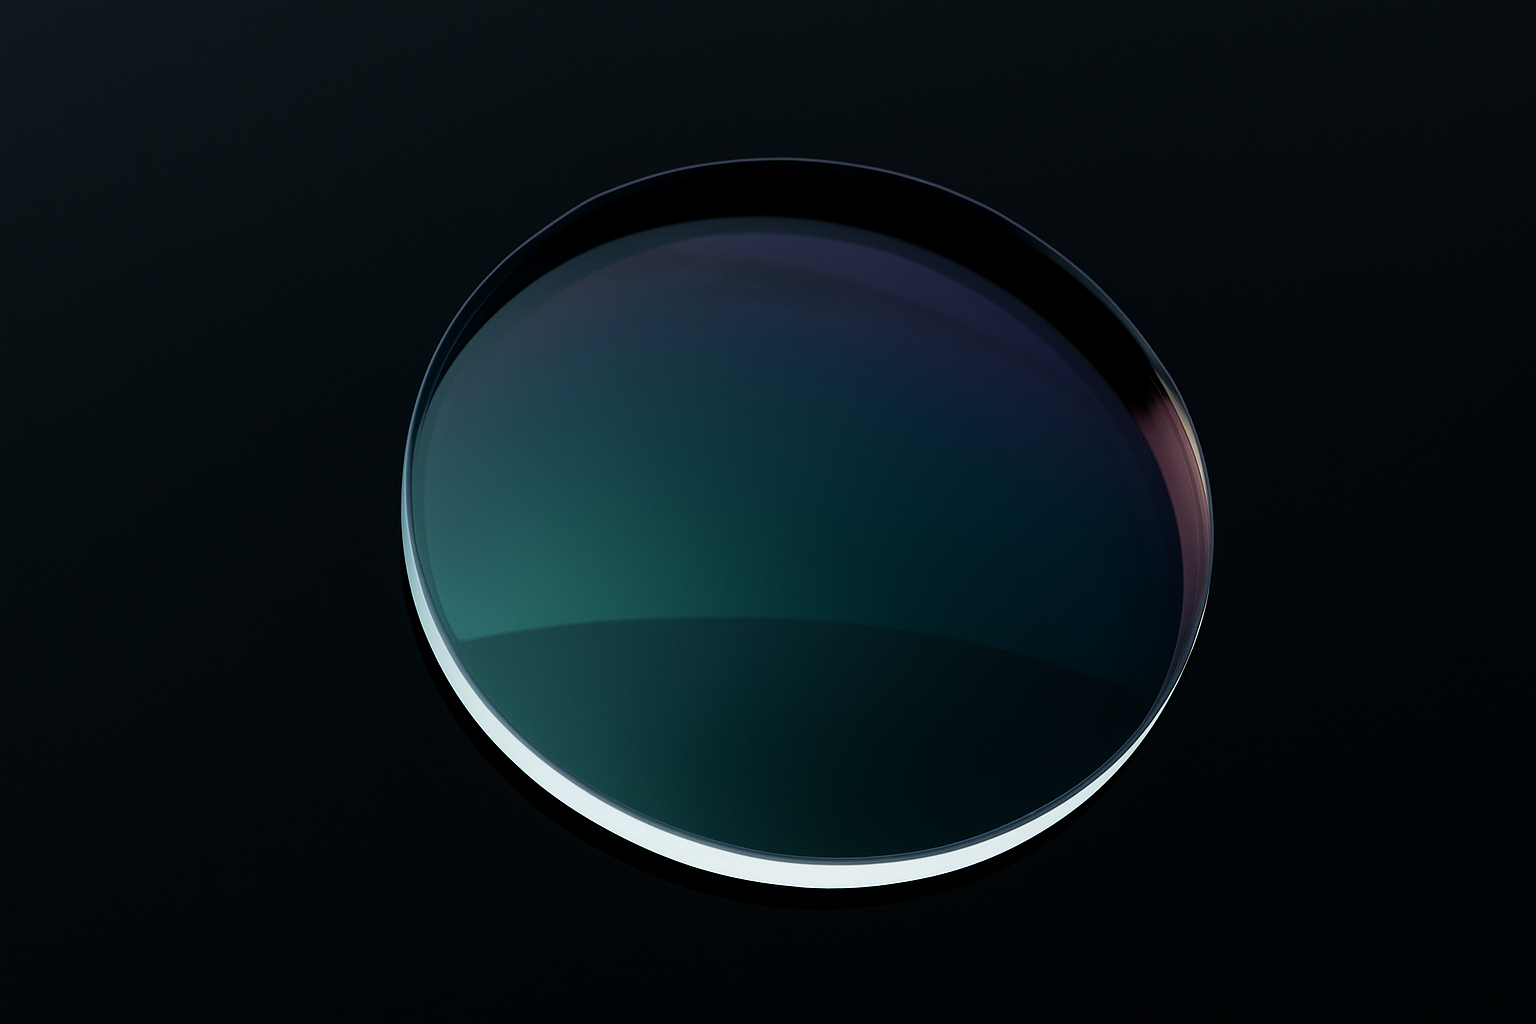
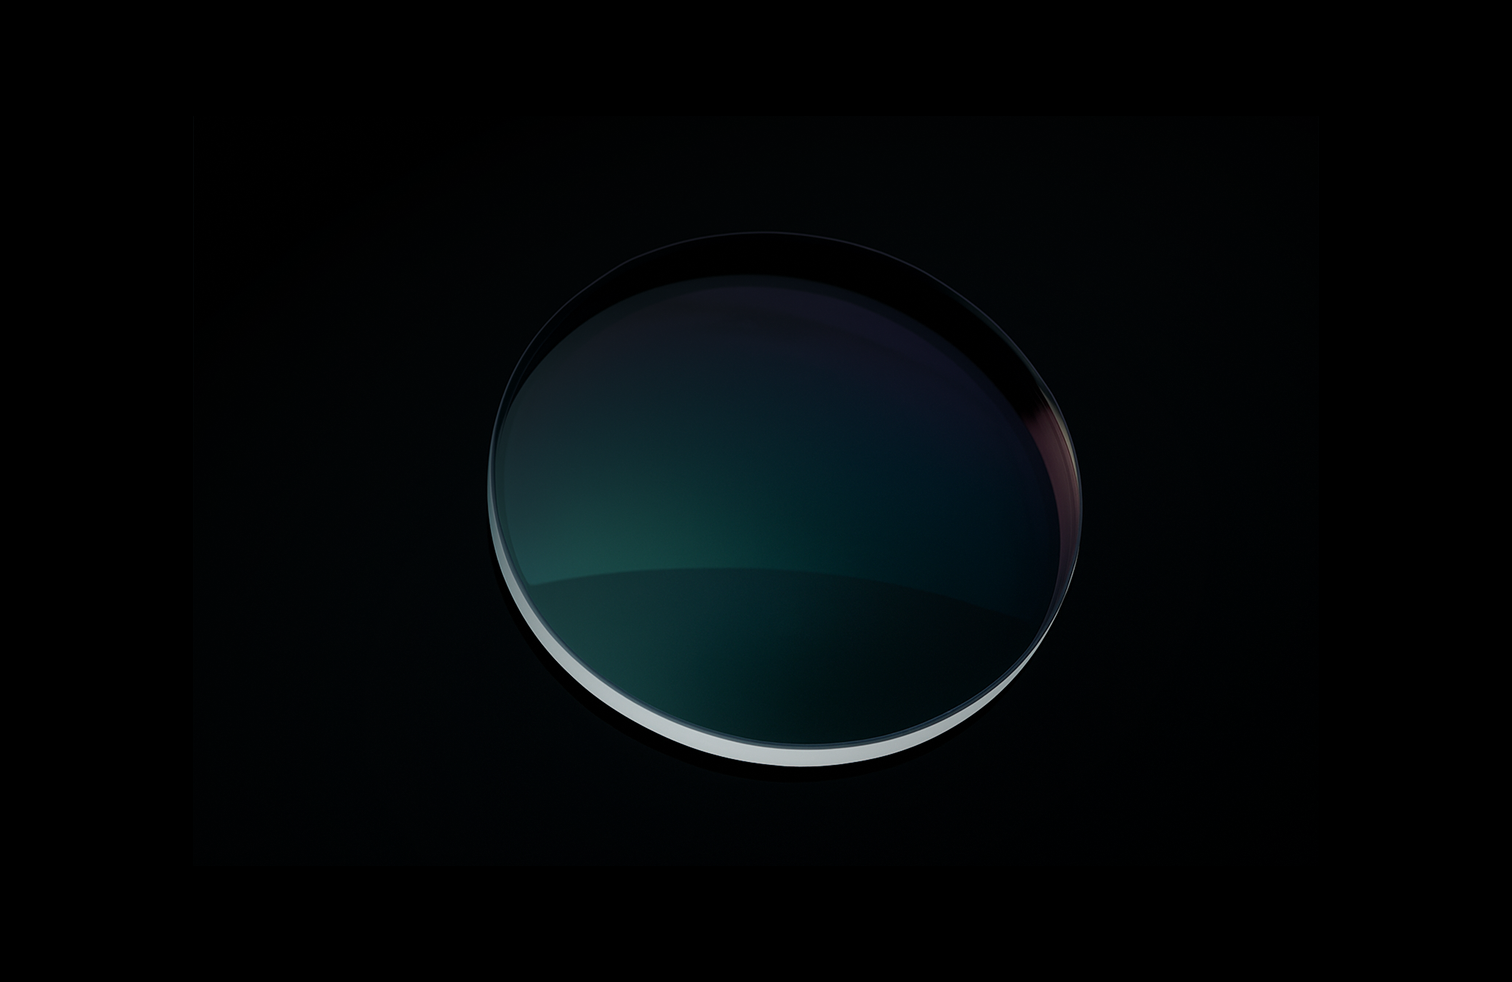
push

diff --git a/components/features/Feature.tsx b/components/features/Feature.tsx
@@ -1,0 +1,135 @@
+import React from "react";
+import type { NextPage } from "next";
+
+// --- SVG Icon Components ---
+// Using inline SVGs to avoid external dependencies and closely match the design.
+
+const ShieldIcon = () => (
+  <svg
+    width="128"
+    height="128"
+    viewBox="0 0 128 128"
+    fill="none"
+    xmlns="http://www.w3.org/2000/svg"
+    className="absolute top-1/2 left-1/2 -translate-x-1/2 -translate-y-1/2 w-32 h-32 text-gray-700"
+  >
+    <defs>
+      <filter id="glow" x="-50%" y="-50%" width="200%" height="200%">
+        <feGaussianBlur stdDeviation="10" result="coloredBlur" />
+        <feMerge>
+          <feMergeNode in="coloredBlur" />
+          <feMergeNode in="SourceGraphic" />
+        </feMerge>
+      </filter>
+    </defs>
+    <path
+      d="M64 10.6667C64 10.6667 106.667 21.3333 106.667 64C106.667 106.667 64 117.333 64 117.333C64 117.333 21.3333 106.667 21.3333 64C21.3333 21.3333 64 10.6667 64 10.6667Z"
+      stroke="rgba(160, 240, 220, 0.2)"
+      strokeWidth="2"
+      filter="url(#glow)"
+    />
+    <path
+      d="M58.6667 61.3333L64 56L69.3333 61.3333V66.6667C69.3333 70.3487 66.982 73.6133 64 74.6667C61.018 73.6133 58.6667 70.3487 58.6667 66.6667V61.3333Z"
+      fill="rgba(255, 255, 255, 0.1)"
+    />
+    <path
+      d="M64 50.6667C66.9453 50.6667 69.3333 52.8213 69.3333 55.5C69.3333 58.1787 66.9453 60.3333 64 60.3333C61.0547 60.3333 58.6667 58.1787 58.6667 55.5C58.6667 52.8213 61.0547 50.6667 64 50.6667Z"
+      fill="rgba(255, 255, 255, 0.1)"
+    />
+  </svg>
+);
+
+const CheckIcon = () => (
+  <svg
+    xmlns="http://www.w3.org/2000/svg"
+    width="16"
+    height="16"
+    fill="currentColor"
+    className="bi bi-check-circle-fill text-green-400 mr-2"
+    viewBox="0 0 16 16"
+  >
+    <path d="M16 8A8 8 0 1 1 0 8a8 8 0 0 1 16 0zm-3.97-3.03a.75.75 0 0 0-1.08.022L7.477 9.417 5.384 7.323a.75.75 0 0 0-1.06 1.06L6.97 11.03a.75.75 0 0 0 1.079-.02l3.992-4.99a.75.75 0 0 0-.01-1.05z" />
+  </svg>
+);
+
+// --- Individual Card Components ---
+
+const CheckingSavingsCard = () => (
+  <div className="bg-[#1c1c1e] rounded-2xl p-8 flex flex-col justify-end min-h-[350px] relative overflow-hidden">
+    <div className="absolute inset-0 flex items-center justify-center opacity-50">
+      <div className="relative w-full h-full">
+        <img src="/c6.jpeg" alt="sas" />
+      </div>
+    </div>
+    <div className="relative z-10">
+      <h3 className="text-xl font-semibold text-white mb-2">
+        Checking and Savings
+      </h3>
+      <p className="text-gray-400 text-sm max-w-xs">
+        Free domestic wires and ACH transfers for Pro users, up to 1.89% APY,
+        and millions in FDIC insurance.²
+      </p>
+    </div>
+  </div>
+);
+
+const WorkingCapitalCard = () => (
+  <div className="bg-[#1c1c1e] rounded-2xl p-8 flex flex-col justify-between min-h-[350px] relative overflow-hidden">
+    {/* Background graph simulation */}
+    <div className="absolute inset-0 opacity-50">
+      <img src="/c5.jpeg" alt="s" />
+    </div>
+    <div className="relative z-10 mt-auto">
+      <h3 className="text-xl font-semibold text-white mb-2">Working Capital</h3>
+      <p className="text-gray-400 text-sm max-w-xs">
+        Apply for business financing, term loans, and lines of credit through
+        our partners.
+      </p>
+    </div>
+  </div>
+);
+
+const CorporateCardsCard = () => (
+  <div className="bg-[#1c1c1e] rounded-2xl p-8 flex flex-col justify-between min-h-[350px] relative overflow-hidden">
+    {/* Background graph simulation */}
+    <div className="absolute inset-0 opacity-50">
+      <img src="/c5.jpeg" alt="s" />
+    </div>
+    <div className="relative z-10 mt-auto">
+      <h3 className="text-xl font-semibold text-white mb-2">Working Capital</h3>
+      <p className="text-gray-400 text-sm max-w-xs">
+        Apply for business financing, term loans, and lines of credit through
+        our partners.
+      </p>
+    </div>
+  </div>
+);
+
+// --- Main Page Component ---
+
+const Feature: NextPage = () => {
+  return (
+    <div className="bg-black min-h-screen p-4 sm:p-8 flex items-center justify-center font-sans">
+      <div className="w-full max-w-6xl mx-auto">
+        <header className="text-center mb-12">
+          <h1 className="text-5xl md:text-7xl font-serif text-white mb-4">
+            A <span className="italic">strong</span> financial foundation
+          </h1>
+          <p className="text-lg text-gray-400 max-w-2xl mx-auto">
+            High-yield accounts, unlimited 2% cashback cards for Pro customers,
+            and flexible working capital to fuel your business.
+          </p>
+        </header>
+
+        <main className="grid grid-cols-1 md:grid-cols-2 gap-6">
+          <CheckingSavingsCard />
+          <WorkingCapitalCard />
+          <CorporateCardsCard />
+          <CheckingSavingsCard />
+        </main>
+      </div>
+    </div>
+  );
+};
+
+export default Feature;

diff --git a/components/Footer.tsx b/components/Footer.tsx
@@ -4,8 +4,8 @@ import Image from "next/image";
 
 const Footer = () => {
   return (
-    <footer className="bg-transparent h-[100vh] backdrop-blur-sm text-white py-16 ">
-      <div className="max-w-7xl mx-auto">
+    <footer className="bg-transparent h-[100vh] backdrop-blur-sm flex items-end text-white  ">
+      <div className="max-w-7xl mx-auto h-fit ">
         <h1 className="text-9xl mt-8 font-bold font-ramro text-center tracking-[1.1rem]">
           STAY IN TOUCH
         </h1>
@@ -79,7 +79,7 @@ const Footer = () => {
               width={190}
               height={100}
             />
-            <button className="px-6 py-3  rounded-lg bg-[#E1AA12] text-white font-medium hover:bg-[#C9961A] active:scale-95 transition-all duration-200 focus:outline-none focus:ring-2 focus:ring-[#E1AA12]/50 flex items-center justify-center gap-2">
+            <button className="px-6 py-3  rounded-full bg-[#E1AA12] text-white font-medium hover:bg-[#C9961A] active:scale-95 transition-all duration-200 focus:outline-none focus:ring-2 focus:ring-[#E1AA12]/50 flex items-center justify-center gap-2">
               Contact us today
               <svg
                 className="w-4 h-4"
@@ -108,16 +108,20 @@ const Footer = () => {
         </div>
 
         {/* Copyright */}
-        <div className="border-t border-gray-800 flex w-full mt-10 justify-between">
+        <div className="border-t border-gray-800 flex w-full mt-10 justify-between p-4">
           <p className="text-gray-400 text-sm">
-            © All Rights Reserved | Awake Nepal Pvt. Ltd.
+            ©2025 Cliff. All Rights Reserved
           </p>
           <div className="flex items-center mt-4 md:mt-0">
             <span className="text-gray-400 text-sm mr-2">
               Design & Developed by:
             </span>
-            <span className="text-white font-semibold">web</span>
-            <span className="text-blue-400 font-semibold">x</span>
+            <img
+              src="https://www.webxnep.com/logo/logo.svg"
+              alt="asa"
+              height={20}
+              width={50}
+            />
           </div>
         </div>
       </div>

diff --git a/components/features/ScrollCarousel.tsx b/components/features/ScrollCarousel.tsx
@@ -78,8 +78,14 @@ export default function ScrollCarousel() {
       id: 5,
       category: "iOS",
       title: "Photography just got better.",
-      bgImage:
-        "https://cliffeyewear.com/wp-content/uploads/2024/08/Bluesafe-scaled.jpg",
+      bgImage: "/c5.jpeg",
+      isSmaller: false,
+    },
+    {
+      id: 6,
+      category: "iOS",
+      title: "Photography just got better.",
+      bgImage: "/c6.jpeg",
       isSmaller: false,
     },
   ];
@@ -88,7 +94,7 @@ export default function ScrollCarousel() {
     <div className="bg-transparent">
       {/* Horizontal scroll section */}
       <section ref={containerRef} className="relative overflow-hidden">
-        <h1 className="text-7xl text-center font-light font-ramro mt-4">
+        <h1 className="text-4xl md:text-5xl font-normal font-ramro text-white mb-4 text-center mt-10">
           Why <span className="text-yellow-400"> Choose CliffLens?</span>
         </h1>
         <div

diff --git a/app/page.tsx b/app/page.tsx
@@ -9,6 +9,8 @@ import Footer from "@/components/Footer";
 import ScrollCarousel from "@/components/features/ScrollCarousel";
 import MansoryLayout from "@/components/features/MansoryLayout";
 import Loading from "@/components/PreLoader/Loading";
+import CliffFeatures from "@/components/features/CliffFeatures";
+import Feature from "@/components/features/Feature";
 
 const Page = () => {
   const [loading, setLoading] = React.useState(true);
@@ -30,11 +32,12 @@ const Page = () => {
           </div>
           <Demo />
           <BgAttached bgImage="./Divider/divider.png" />
+          <Feature />
           {/* <CliffFeatures /> */}
-          <MansoryLayout />
+          {/* <MansoryLayout /> */}
           <MagicReveal />
           <ScrollCarousel />
-          <BgAttached bgImage="./Divider/divider2.png" />
+          <BgAttached bgImage="./ai1.jpg" />
           <div className="z-20">
             <Footer />
           </div>

diff --git a/components/features/MansoryLayout.tsx b/components/features/MansoryLayout.tsx
@@ -108,7 +108,7 @@ const MansoryLayout: React.FC = () => {
           </h2>
         </div>
 
-        <div className="grid-container grid h-auto md:h-[80rem] grid-cols-2 grid-rows-6  md:gap-2">
+        <div className="grid-container grid h-auto md:h-[80rem] grid-cols-2 grid-rows-6  md:gap-44">
           {features.map((feature: Feature, index: number) => (
             <div
               key={index}

diff --git a/components/MagicReveal.tsx b/components/MagicReveal.tsx
@@ -89,7 +89,7 @@ export default function MagicReveal() {
       <div className="absolute inset-0 reveal-layer-second overflow-hidden">
         <div className="relative w-full h-full">
           <Image
-            src="/didi.jpg"
+            src="/circle.png"
             alt="Revealed Image"
             fill
             objectFit="cover"
